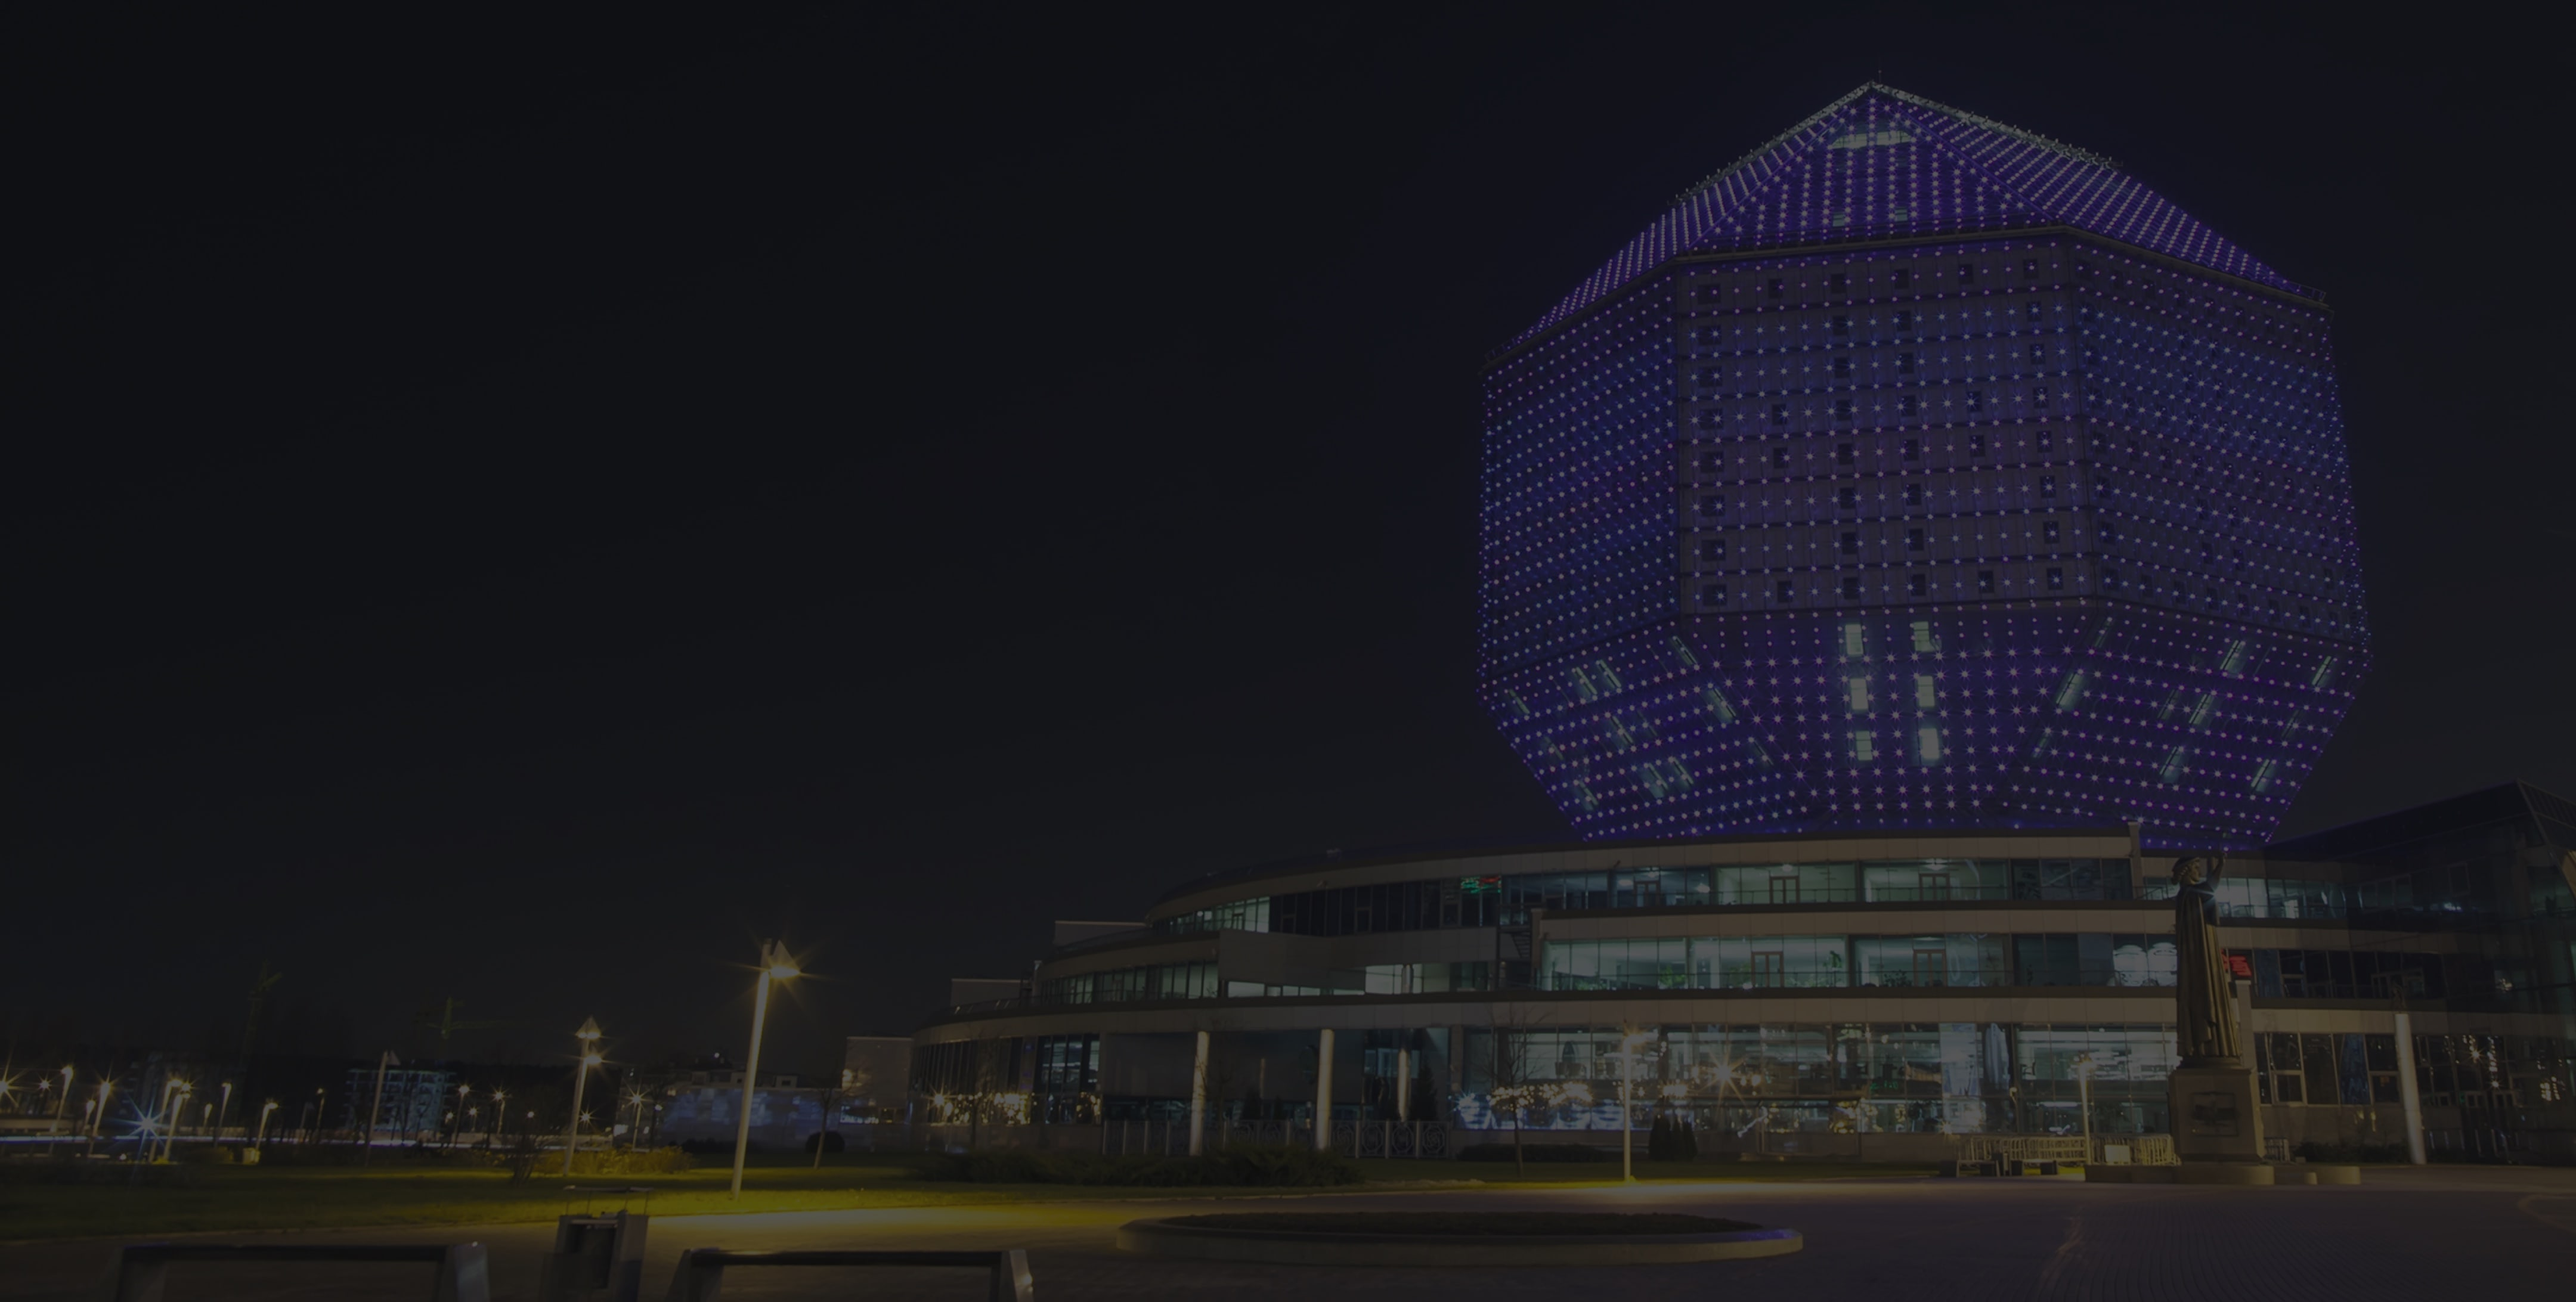
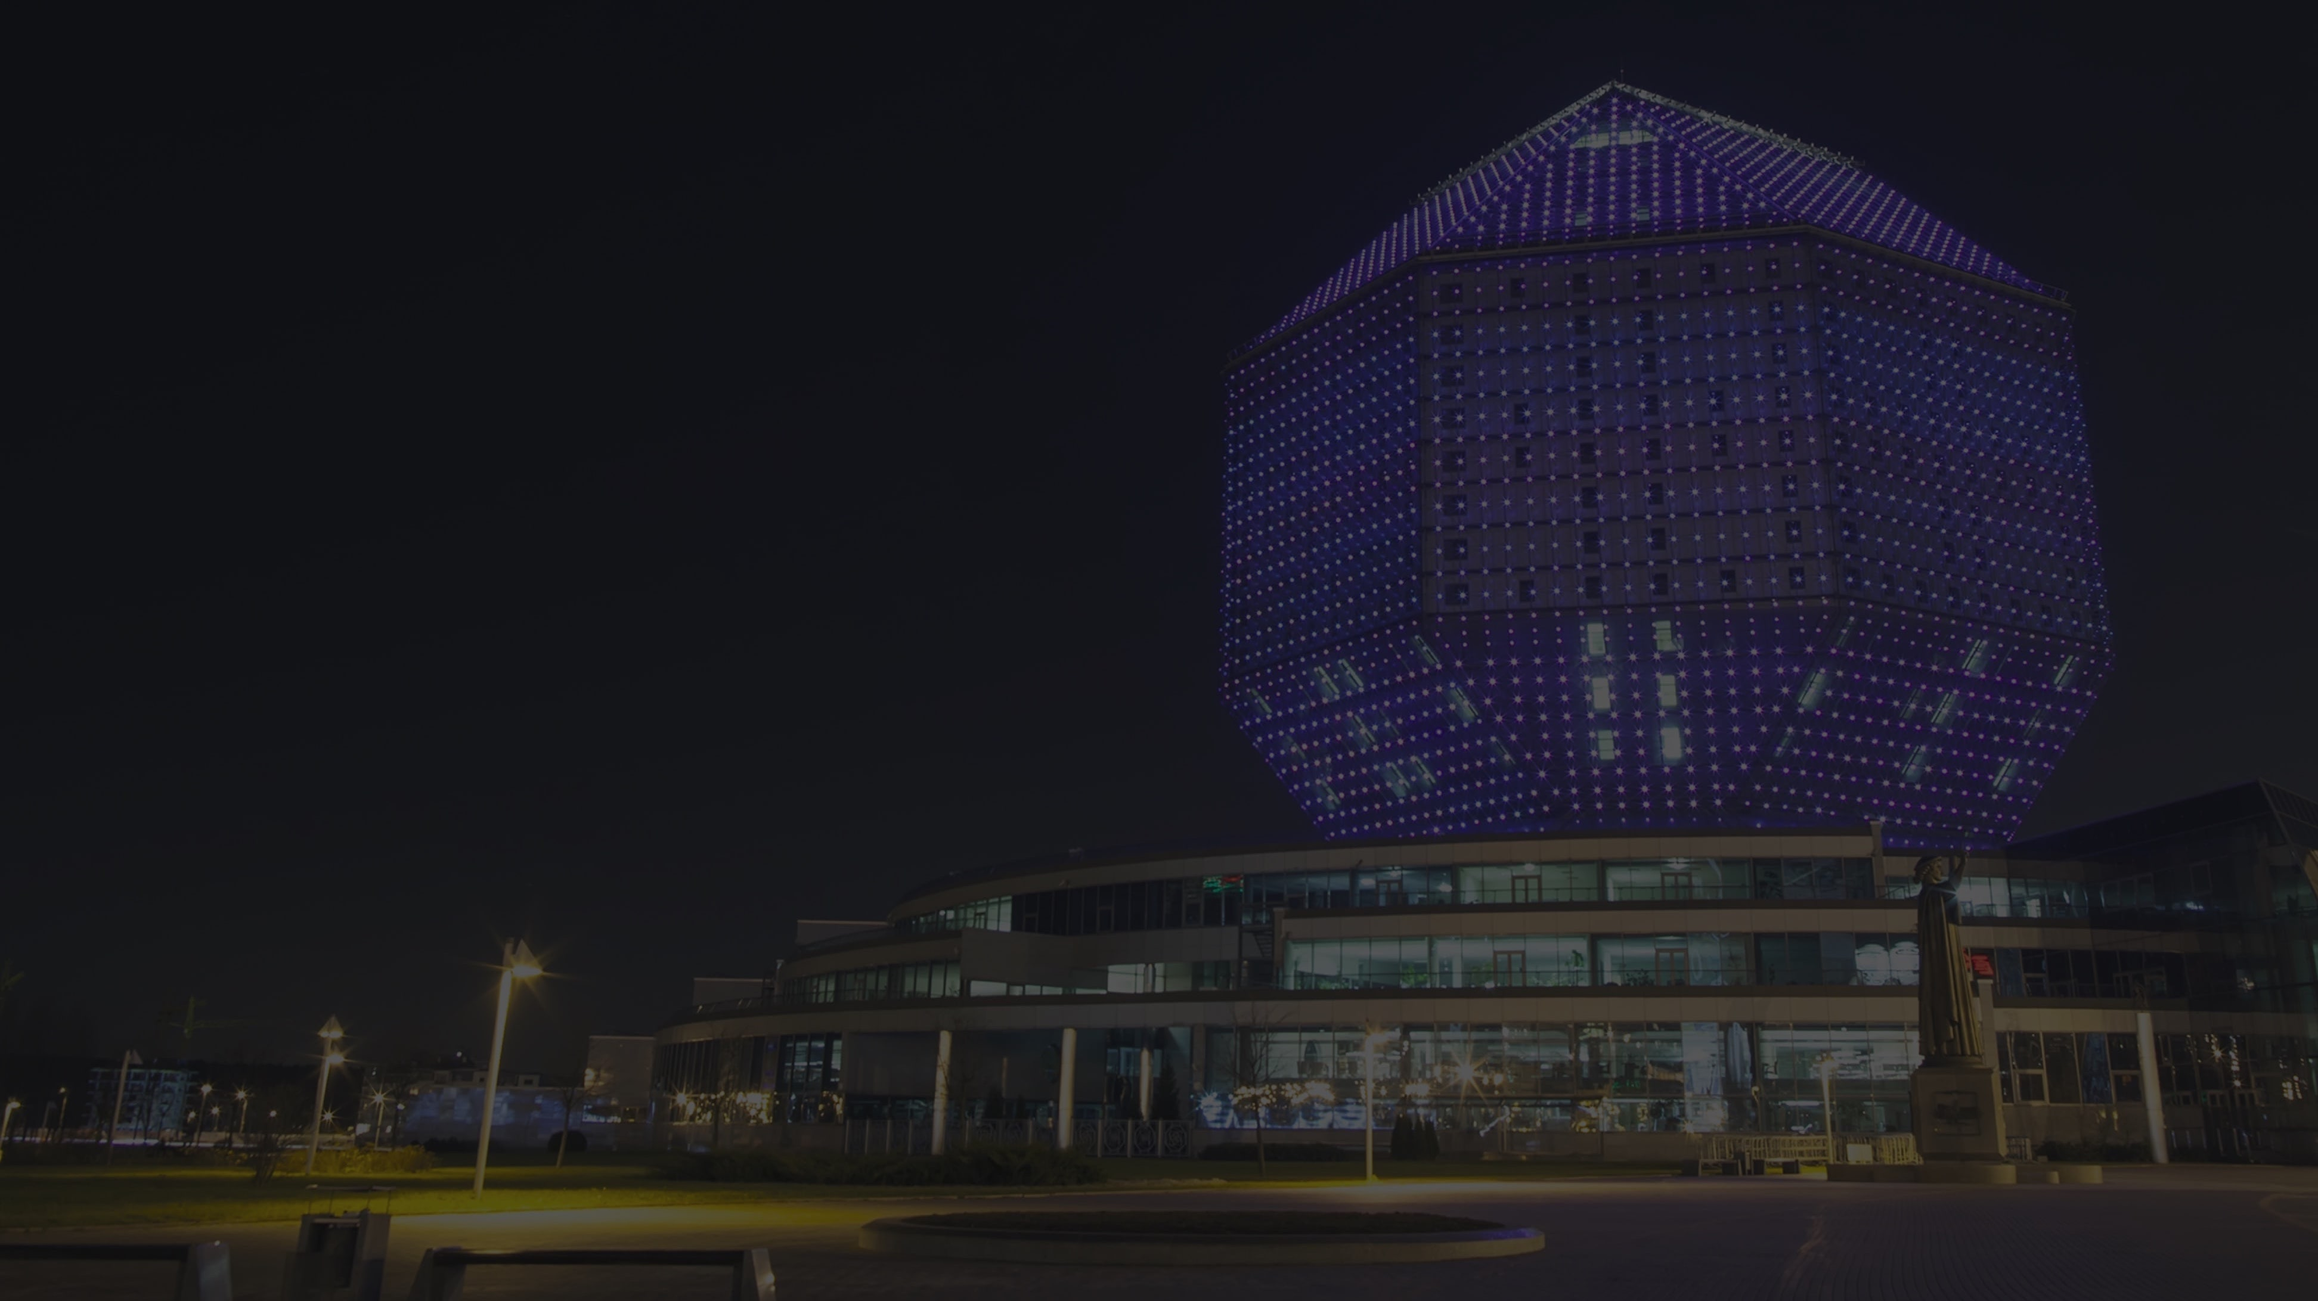
Fixed mobile view for minsk hero background image

Changed region(s): [[0.0, 0.0623, 0.9959, 0.9968], [0.6224, 0.9345, 0.7158, 0.9656], [0.4046, 0.6853, 0.4357, 0.7164]]

diff --git a/src/pages/careers/locations/_location-layout.js b/src/pages/careers/locations/_location-layout.js
@@ -16,6 +16,15 @@ const Pin = styled.img`
     margin-right: 13px;
 `
 
+const StyledBackground = styled(BackgroundImage)`
+    min-width: 100%;
+    height: 80rem;
+    object-fit: contain;
+    @media ${device.tabletL} {
+        height: 65.3rem;
+    }
+`
+
 const StyledContainer = styled(Container)`
     flex-direction: column;
     align-items: flex-start;
@@ -41,14 +50,7 @@ const Subheadline = styled(Text)`
 
 const Hero = ({ display_name, img_data, description }) => {
     return (
-        <BackgroundImage
-            data={img_data}
-            style={{
-                height: '80rem',
-                minWidth: '100%',
-            }}
-            alt={display_name}
-        >
+        <StyledBackground data={img_data} alt={display_name}>
             <StyledContainer>
                 <StyledHeader as="h1">{display_name}</StyledHeader>
                 <Subheadline>{description}</Subheadline>
@@ -63,7 +65,7 @@ const Hero = ({ display_name, img_data, description }) => {
                     {`View open positions in ${display_name}`}
                 </LinkButton>
             </StyledContainer>
-        </BackgroundImage>
+        </StyledBackground>
     )
 }
 
